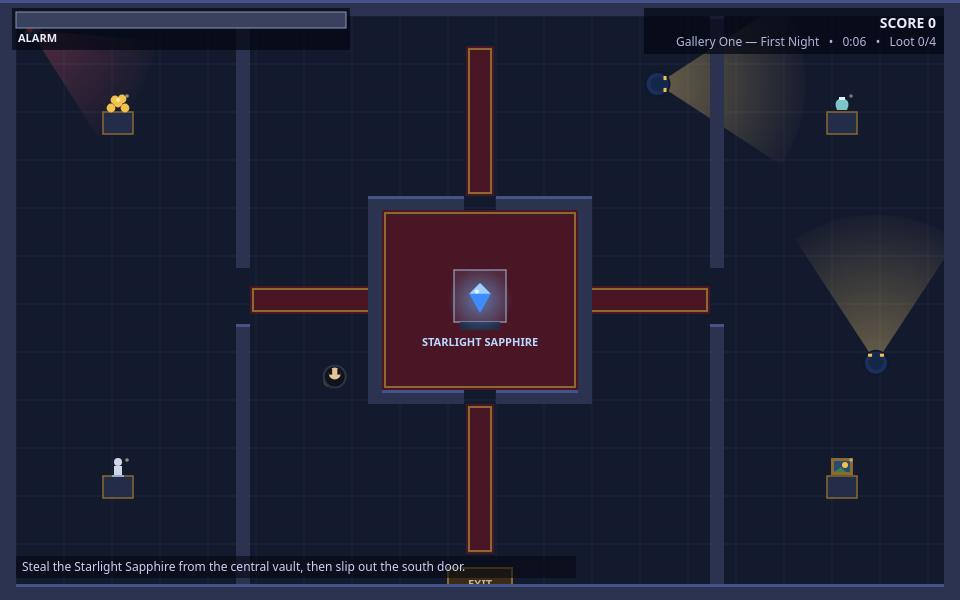
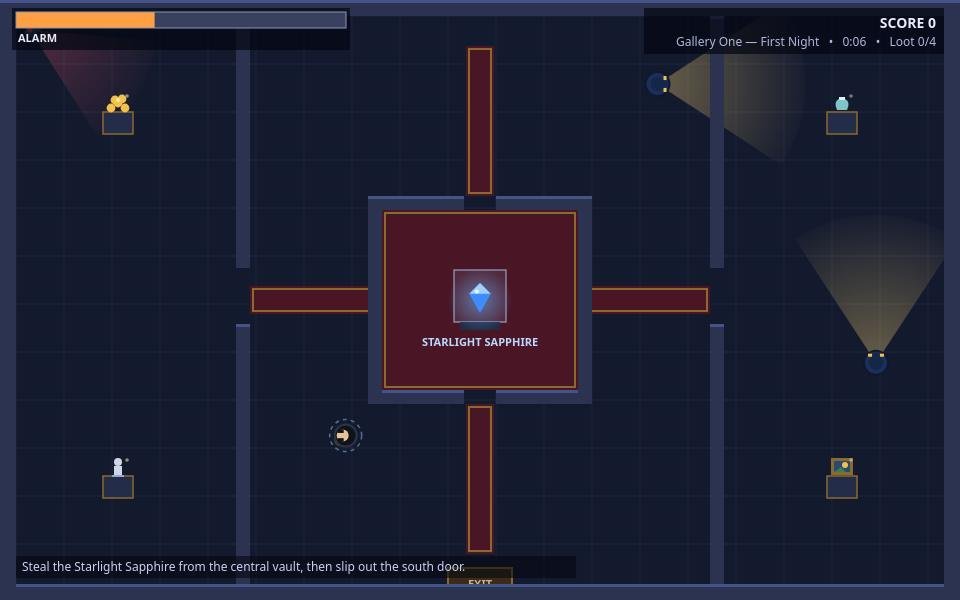
R2 polish: numbers on the title screen, clearer cover frame
- Title screen now lists the game's scale: 3 galleries, 9 guards,
  6 cameras, 18 treasures, laser vault
- Cover scene: thief stops in open floor and sneaks (dashed ring),
  alarm bar mid-fill, so all five cover elements read at thumbnail size
- Panels darkened (0.78 -> 0.9) so HUD text no longer ghosts through

Changed region(s): [[0.0, 0.0, 0.1875, 0.06], [0.3438, 0.69, 0.375, 0.75], [0.3438, 0.6, 0.375, 0.63]]

diff --git a/game/src/shots.js b/game/src/shots.js
@@ -42,9 +42,13 @@ export function buildShotScene(name) {
     // The money frame: the thief crosses the south hall toward the vault,
     // a guard's cone sweeps the top corridor, the corner camera fans the
     // west gallery, the sapphire glitters centre-frame, alarm bar on top.
+    // The thief stops in open floor (not against a wall) and sneaks, so his
+    // dashed ring reads even at thumbnail size; the alarm bar is mid-fill.
     const world = createWorld(0);
-    playToward(world, [{ x: 430, y: 452 }, { x: 356, y: 430 }, { x: 330, y: 372 }], 6.4);
-    if (world.screen === SCREEN_CAUGHT) { world.screen = 'play'; world.alarm = 42; }
+    playToward(world, [{ x: 430, y: 452 }, { x: 380, y: 440 }, { x: 340, y: 430 }], 6.4);
+    if (world.screen === SCREEN_CAUGHT) { world.screen = 'play'; }
+    world.player.sneaking = true;
+    world.alarm = 42;
     return { world, title: false };
   }
   if (name === 'play') {

diff --git a/game/src/render.js b/game/src/render.js
@@ -306,7 +306,9 @@ function drawPlay(ctx, world) {
 }
 
 function panel(ctx, title, lines, accent) {
-  ctx.fillStyle = 'rgba(4,6,14,0.78)';
+  // Opaque enough that the gem label and HUD text behind the panel do not
+  // ghost through the title lines at thumbnail size.
+  ctx.fillStyle = 'rgba(4,6,14,0.9)';
   ctx.fillRect(0, 0, W, H);
   ctx.fillStyle = accent;
   ctx.font = 'bold 44px system-ui, sans-serif';
@@ -325,6 +327,7 @@ export function render(ctx, world, ui) {
       'S A P P H I R E   H E I S T',
       '',
       'Sneak past the guards and cameras. Steal the Starlight Sapphire.',
+      '3 galleries • 9 guards • 6 cameras • 18 treasures • laser vault',
       'WASD / Arrow keys to move • Hold SHIFT to sneak • M to mute',
       '',
       'Press ENTER or click to begin the heist',

diff --git a/README.md b/README.md
@@ -4,7 +4,7 @@
 [![rank](https://make.fun/badge/best-heist-game-20261122-0559/cza999/moonlit-museum-heist/rank.svg)](https://make.fun/bounty/best-heist-game-20261122-0559/leaderboard?utm_source=github&utm_medium=readme&utm_campaign=best-heist-game-20261122-0559)
 [![reward](https://make.fun/badge/best-heist-game-20261122-0559/cza999/moonlit-museum-heist/reward.svg)](https://make.fun/bounty/best-heist-game-20261122-0559?utm_source=github&utm_medium=readme&utm_campaign=best-heist-game-20261122-0559)
 
-Moonlit Museum: Sapphire Heist is a top-down stealth game in plain JavaScript and canvas: sneak a thief through three moonlit museum galleries, dodge guard flashlight cones, sweeping security cameras and laser tripwires, steal the Starlight Sapphire and every treasure you dare, and escape before the alarm meter fills. No build step and no network requests — the game is static files under `game/`, with sound synthesized live in WebAudio.
+Moonlit Museum: Sapphire Heist is a top-down stealth game in plain JavaScript and canvas: sneak a thief through three moonlit museum galleries — 9 guards, 6 cameras, 18 treasures, laser tripwires — dodge guard flashlight cones and sweeping security cameras, steal the Starlight Sapphire and every treasure you dare, and escape before the alarm meter fills. No build step and no network requests — the game is static files under `game/`, with sound synthesized live in WebAudio.
 
 ## Run it
 
